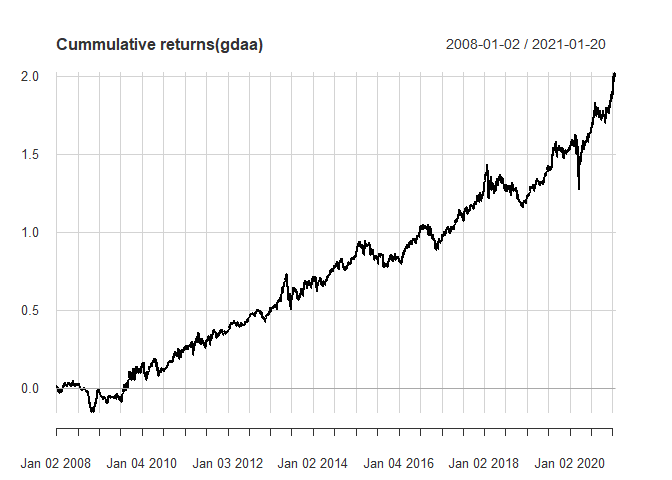
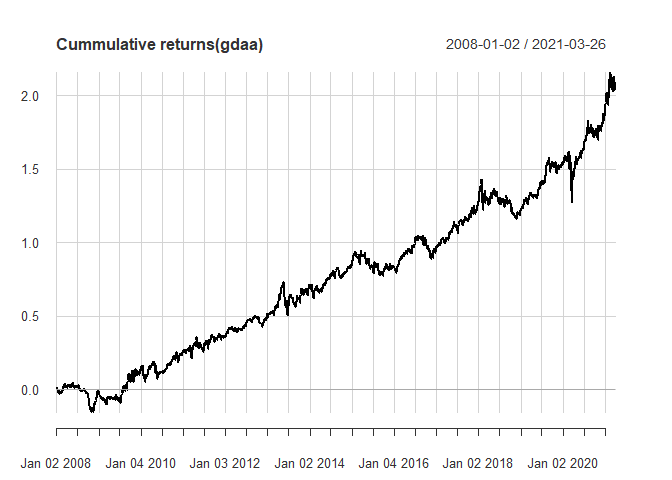
updates

diff --git a/all_weather.md b/all_weather.md
@@ -84,7 +84,7 @@ names(Port_all_net) = 'Returns_allweather'
 
 |             | Cummulative\_return | Annualized\_return | Max\_drawdown | Annualized\_std |
 | ----------- | ------------------: | -----------------: | ------------: | --------------: |
-| All Weather |            1.617357 |           0.076683 |     0.1448201 |         0.07593 |
+| All Weather |            1.526234 |          0.0730106 |     0.1448199 |       0.0762866 |
 
 Table1: Summarization(All weather
 
@@ -217,42 +217,42 @@ names(Port_gdaa_net) = 'Returns_gdaa'
 
 |            |       QQQ |       IEV |       EWJ |       EEM |       TLT | IEF |       IYR |       RWX |       GLD |       DBC |
 | ---------- | --------: | --------: | --------: | --------: | --------: | --: | --------: | --------: | --------: | --------: |
-| 2018-02-28 | 0.1000000 | 0.2106387 | 0.2893613 | 0.1000000 | 0.0000000 | 0.0 | 0.0000000 | 0.0000000 | 0.0000000 | 0.3000000 |
-| 2018-03-29 | 0.1000000 | 0.0000000 | 0.2000000 | 0.1000000 | 0.0000000 | 0.0 | 0.0000000 | 0.3000000 | 0.0000000 | 0.3000000 |
 | 2018-04-30 | 0.1000000 | 0.0000000 | 0.2000000 | 0.1000000 | 0.0000000 | 0.0 | 0.0000000 | 0.3000000 | 0.0000000 | 0.3000000 |
 | 2018-05-31 | 0.1000000 | 0.0000000 | 0.2000000 | 0.1000000 | 0.0000000 | 0.0 | 0.0000000 | 0.3000000 | 0.0000000 | 0.3000000 |
-| 2018-06-29 | 0.1000000 | 0.0000000 | 0.1000000 | 0.0000000 | 0.0000000 | 0.0 | 0.2093452 | 0.2906548 | 0.0000000 | 0.3000000 |
-| 2018-07-31 | 0.1000000 | 0.1000000 | 0.0000000 | 0.0000000 | 0.0000000 | 0.0 | 0.2531713 | 0.2468287 | 0.0000000 | 0.3000000 |
-| 2018-08-31 | 0.1000000 | 0.0000000 | 0.0000000 | 0.0000000 | 0.3000000 | 0.0 | 0.1131106 | 0.2454821 | 0.0000000 | 0.2414073 |
+| 2018-06-29 | 0.1000000 | 0.0000000 | 0.1000000 | 0.0000000 | 0.0000000 | 0.0 | 0.2093451 | 0.2906549 | 0.0000000 | 0.3000000 |
+| 2018-07-31 | 0.1000000 | 0.1000000 | 0.0000000 | 0.0000000 | 0.0000000 | 0.0 | 0.2531708 | 0.2468292 | 0.0000000 | 0.3000000 |
+| 2018-08-31 | 0.1000000 | 0.0000000 | 0.0000000 | 0.0000000 | 0.3000000 | 0.0 | 0.1131098 | 0.2454840 | 0.0000000 | 0.2414062 |
 | 2018-09-28 | 0.1000000 | 0.0000000 | 0.1000000 | 0.0000000 | 0.0000000 | 0.3 | 0.2200584 | 0.0000000 | 0.0000000 | 0.2799416 |
-| 2018-10-31 | 0.1000000 | 0.0000000 | 0.0000000 | 0.0000000 | 0.0000000 | 0.3 | 0.1603286 | 0.0000000 | 0.3000000 | 0.1396714 |
-| 2018-11-30 | 0.1000000 | 0.0000000 | 0.0000000 | 0.0000000 | 0.2085009 | 0.3 | 0.1000000 | 0.0000000 | 0.2914991 | 0.0000000 |
-| 2018-12-31 | 0.0000000 | 0.0000000 | 0.0000000 | 0.0000000 | 0.2027635 | 0.3 | 0.1000000 | 0.1372325 | 0.2600040 | 0.0000000 |
-| 2019-01-31 | 0.0000000 | 0.0000000 | 0.0000000 | 0.0000000 | 0.2083364 | 0.3 | 0.1000000 | 0.1447297 | 0.2469339 | 0.0000000 |
-| 2019-02-28 | 0.0000000 | 0.0000000 | 0.0000000 | 0.0000000 | 0.2006469 | 0.3 | 0.1000000 | 0.2024411 | 0.1969119 | 0.0000000 |
+| 2018-10-31 | 0.1000000 | 0.0000000 | 0.0000000 | 0.0000000 | 0.0000000 | 0.3 | 0.1603290 | 0.0000000 | 0.3000000 | 0.1396710 |
+| 2018-11-30 | 0.1000000 | 0.0000000 | 0.0000000 | 0.0000000 | 0.2085006 | 0.3 | 0.1000000 | 0.0000000 | 0.2914994 | 0.0000000 |
+| 2018-12-31 | 0.0000000 | 0.0000000 | 0.0000000 | 0.0000000 | 0.2027628 | 0.3 | 0.1000000 | 0.1372330 | 0.2600042 | 0.0000000 |
+| 2019-01-31 | 0.0000000 | 0.0000000 | 0.0000000 | 0.0000000 | 0.2083359 | 0.3 | 0.1000000 | 0.1447301 | 0.2469340 | 0.0000000 |
+| 2019-02-28 | 0.0000000 | 0.0000000 | 0.0000000 | 0.0000000 | 0.2006463 | 0.3 | 0.1000000 | 0.2024420 | 0.1969117 | 0.0000000 |
 | 2019-03-29 | 0.1000000 | 0.0000000 | 0.0000000 | 0.0000000 | 0.3000000 | 0.3 | 0.1000000 | 0.2000000 | 0.0000000 | 0.0000000 |
-| 2019-04-30 | 0.1000000 | 0.0000000 | 0.0000000 | 0.1116096 | 0.3000000 | 0.3 | 0.1883904 | 0.0000000 | 0.0000000 | 0.0000000 |
-| 2019-05-31 | 0.0000000 | 0.0000000 | 0.0000000 | 0.0000000 | 0.2172947 | 0.3 | 0.1000000 | 0.2200055 | 0.1626998 | 0.0000000 |
-| 2019-06-28 | 0.1101337 | 0.0000000 | 0.0000000 | 0.0000000 | 0.2651473 | 0.3 | 0.1000000 | 0.0000000 | 0.2247190 | 0.0000000 |
+| 2019-04-30 | 0.1000000 | 0.0000000 | 0.0000000 | 0.1116091 | 0.3000000 | 0.3 | 0.1883909 | 0.0000000 | 0.0000000 | 0.0000000 |
+| 2019-05-31 | 0.0000000 | 0.0000000 | 0.0000000 | 0.0000000 | 0.2172945 | 0.3 | 0.1000000 | 0.2200060 | 0.1626995 | 0.0000000 |
+| 2019-06-28 | 0.1101338 | 0.0000000 | 0.0000000 | 0.0000000 | 0.2651472 | 0.3 | 0.1000000 | 0.0000000 | 0.2247190 | 0.0000000 |
 | 2019-07-31 | 0.1192641 | 0.0000000 | 0.0000000 | 0.0000000 | 0.3000000 | 0.3 | 0.1000000 | 0.0000000 | 0.1807359 | 0.0000000 |
-| 2019-08-30 | 0.1369427 | 0.0000000 | 0.0000000 | 0.0000000 | 0.2766771 | 0.3 | 0.1007342 | 0.0000000 | 0.1856461 | 0.0000000 |
-| 2019-09-30 | 0.1500557 | 0.0000000 | 0.0000000 | 0.0000000 | 0.2610092 | 0.3 | 0.1066340 | 0.0000000 | 0.1823010 | 0.0000000 |
+| 2019-08-30 | 0.1369428 | 0.0000000 | 0.0000000 | 0.0000000 | 0.2766796 | 0.3 | 0.1007337 | 0.0000000 | 0.1856439 | 0.0000000 |
+| 2019-09-30 | 0.1500557 | 0.0000000 | 0.0000000 | 0.0000000 | 0.2610113 | 0.3 | 0.1066338 | 0.0000000 | 0.1822993 | 0.0000000 |
 | 2019-10-31 | 0.1000000 | 0.0000000 | 0.0000000 | 0.0000000 | 0.3000000 | 0.0 | 0.1000000 | 0.3000000 | 0.2000000 | 0.0000000 |
-| 2019-11-29 | 0.1000000 | 0.0000000 | 0.2533259 | 0.0000000 | 0.3000000 | 0.0 | 0.1000000 | 0.0000000 | 0.2466741 | 0.0000000 |
-| 2019-12-31 | 0.1000000 | 0.1000000 | 0.2448793 | 0.0000000 | 0.0000000 | 0.0 | 0.2551207 | 0.0000000 | 0.3000000 | 0.0000000 |
-| 2020-01-31 | 0.1110605 | 0.3000000 | 0.0000000 | 0.0000000 | 0.3000000 | 0.0 | 0.1000000 | 0.0000000 | 0.1889395 | 0.0000000 |
-| 2020-02-28 | 0.2465704 | 0.0000000 | 0.0000000 | 0.0000000 | 0.2029599 | 0.3 | 0.1000000 | 0.0000000 | 0.1504696 | 0.0000000 |
-| 2020-03-31 | 0.1000000 | 0.0000000 | 0.2028028 | 0.0000000 | 0.2139725 | 0.3 | 0.0000000 | 0.0000000 | 0.1832247 | 0.0000000 |
-| 2020-04-30 | 0.1000000 | 0.0000000 | 0.1846293 | 0.0000000 | 0.2352358 | 0.3 | 0.0000000 | 0.0000000 | 0.1801349 | 0.0000000 |
-| 2020-05-29 | 0.1003342 | 0.0000000 | 0.1901933 | 0.0000000 | 0.2362474 | 0.3 | 0.0000000 | 0.0000000 | 0.1732251 | 0.0000000 |
-| 2020-06-30 | 0.1380667 | 0.0000000 | 0.0000000 | 0.1000000 | 0.2564651 | 0.3 | 0.0000000 | 0.0000000 | 0.2054682 | 0.0000000 |
-| 2020-07-31 | 0.1307707 | 0.0000000 | 0.0000000 | 0.1000000 | 0.2524695 | 0.3 | 0.0000000 | 0.0000000 | 0.2167598 | 0.0000000 |
+| 2019-11-29 | 0.1000000 | 0.0000000 | 0.2533255 | 0.0000000 | 0.3000000 | 0.0 | 0.1000000 | 0.0000000 | 0.2466745 | 0.0000000 |
+| 2019-12-31 | 0.1000000 | 0.1000000 | 0.2448792 | 0.0000000 | 0.0000000 | 0.0 | 0.2551208 | 0.0000000 | 0.3000000 | 0.0000000 |
+| 2020-01-31 | 0.1110601 | 0.3000000 | 0.0000000 | 0.0000000 | 0.3000000 | 0.0 | 0.1000000 | 0.0000000 | 0.1889399 | 0.0000000 |
+| 2020-02-28 | 0.2465703 | 0.0000000 | 0.0000000 | 0.0000000 | 0.2029610 | 0.3 | 0.1000000 | 0.0000000 | 0.1504687 | 0.0000000 |
+| 2020-03-31 | 0.1000000 | 0.0000000 | 0.2028027 | 0.0000000 | 0.2139729 | 0.3 | 0.0000000 | 0.0000000 | 0.1832244 | 0.0000000 |
+| 2020-04-30 | 0.1000000 | 0.0000000 | 0.1846291 | 0.0000000 | 0.2352361 | 0.3 | 0.0000000 | 0.0000000 | 0.1801348 | 0.0000000 |
+| 2020-05-29 | 0.1003340 | 0.0000000 | 0.1901933 | 0.0000000 | 0.2362476 | 0.3 | 0.0000000 | 0.0000000 | 0.1732251 | 0.0000000 |
+| 2020-06-30 | 0.1380664 | 0.0000000 | 0.0000000 | 0.1000000 | 0.2564655 | 0.3 | 0.0000000 | 0.0000000 | 0.2054681 | 0.0000000 |
+| 2020-07-31 | 0.1307706 | 0.0000000 | 0.0000000 | 0.1000000 | 0.2524698 | 0.3 | 0.0000000 | 0.0000000 | 0.2167596 | 0.0000000 |
 | 2020-08-31 | 0.1000000 | 0.0000000 | 0.2000000 | 0.1000000 | 0.3000000 | 0.0 | 0.0000000 | 0.0000000 | 0.3000000 | 0.0000000 |
 | 2020-09-30 | 0.1000000 | 0.0000000 | 0.2000000 | 0.1000000 | 0.3000000 | 0.0 | 0.0000000 | 0.0000000 | 0.3000000 | 0.0000000 |
 | 2020-10-30 | 0.1000000 | 0.0000000 | 0.2000000 | 0.1000000 | 0.0000000 | 0.3 | 0.0000000 | 0.0000000 | 0.3000000 | 0.0000000 |
 | 2020-11-30 | 0.1583065 | 0.1000000 | 0.3000000 | 0.1416935 | 0.0000000 | 0.0 | 0.0000000 | 0.0000000 | 0.0000000 | 0.3000000 |
 | 2020-12-31 | 0.1689521 | 0.1000000 | 0.3000000 | 0.1310479 | 0.0000000 | 0.0 | 0.0000000 | 0.0000000 | 0.0000000 | 0.3000000 |
-| 2021-01-20 | 0.1650595 | 0.1000000 | 0.3000000 | 0.1349405 | 0.0000000 | 0.0 | 0.0000000 | 0.0000000 | 0.0000000 | 0.3000000 |
+| 2021-01-29 | 0.1672762 | 0.1000000 | 0.3000000 | 0.1327238 | 0.0000000 | 0.0 | 0.0000000 | 0.0000000 | 0.0000000 | 0.3000000 |
+| 2021-02-26 | 0.1908187 | 0.1000000 | 0.3000000 | 0.1091813 | 0.0000000 | 0.0 | 0.0000000 | 0.0000000 | 0.0000000 | 0.3000000 |
+| 2021-03-26 | 0.1262613 | 0.1737387 | 0.3000000 | 0.1000000 | 0.0000000 | 0.0 | 0.0000000 | 0.0000000 | 0.0000000 | 0.3000000 |
 
 Table2: Weights
 
@@ -260,7 +260,7 @@ Table2: Weights
 
 |      | Cummulative\_return | Annualized\_return | Max\_drawdown | Annualized\_std |
 | ---- | ------------------: | -----------------: | ------------: | --------------: |
-| GDAA |            2.024025 |          0.0904978 |     0.1926419 |       0.1059553 |
+| GDAA |             2.08934 |          0.0910272 |     0.1926421 |        0.106749 |
 
 Table3: Summarization(GDAA)
 
@@ -280,5 +280,5 @@ charts.PerformanceSummary(portfolios, main = 'All weather vs GDAA')
 
 |             | Annualized\_return | Cummulative\_return | Max\_drawdown | Annualized\_std |
 | ----------- | -----------------: | ------------------: | ------------: | --------------: |
-| All Weather |          0.0766830 |            1.617357 |     0.1448201 |       0.0759300 |
-| GDAA        |          0.0904978 |            2.024025 |     0.1926419 |       0.1059553 |
+| All Weather |          0.0730106 |            1.526234 |     0.1448199 |       0.0762866 |
+| GDAA        |          0.0910272 |            2.089340 |     0.1926421 |       0.1067490 |
